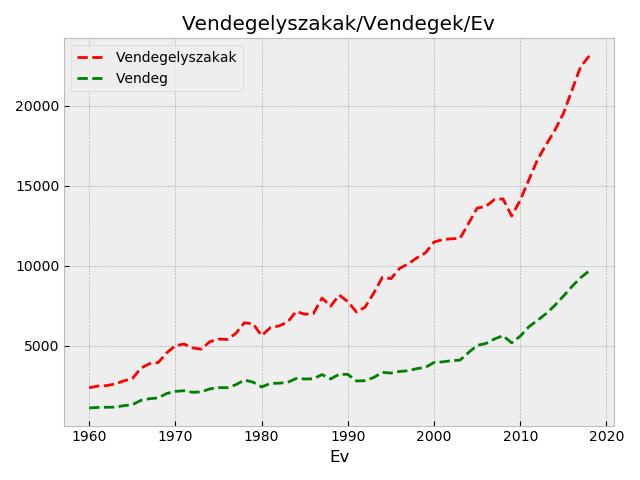
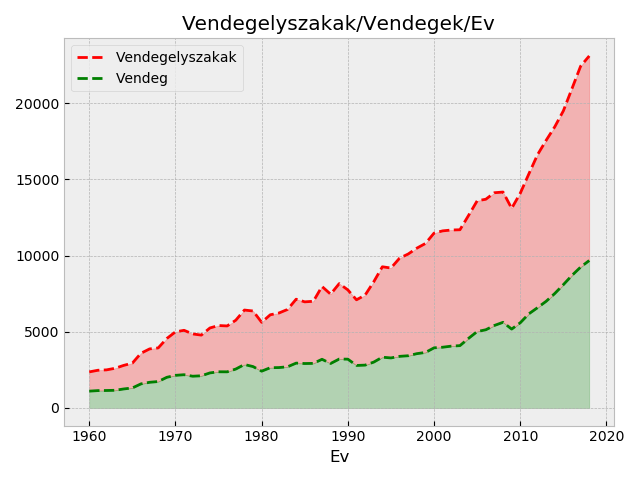
Torta + Kitölrtés
2_graf,8_graf

diff --git a/PythonApplication1.py b/PythonApplication1.py
@@ -20,6 +20,26 @@ Kihasznaltsag = readed['Kihasznaltsag']
 readed['Foglalt_ejszakak'] = readed['Vendegelyszakak']/readed['Vendeg']
 Foglalt_ejszakak = readed['Foglalt_ejszakak']
 
+Vendegek_evtizedenkent = [0,0,0,0,0]
+
+for i in range(len(Ev)):
+    if(Ev[i]<1970): 
+        Vendegek_evtizedenkent[0] += Vendeg[i]
+    else: 
+        if(Ev[i]<1980):
+            Vendegek_evtizedenkent[1] += Vendeg[i]
+        else:
+            if(Ev[i]<1990):
+                Vendegek_evtizedenkent[2] += Vendeg[i]
+            else:
+                if(Ev[i]<2000):
+                    Vendegek_evtizedenkent[3] += Vendeg[i]
+                else:
+                    if(Ev[i]<2010):
+                        Vendegek_evtizedenkent[4] += Vendeg[i]
+
+
+
 
 # 1_graf grafikon a ferohelyekrol evszamok szerint
 
@@ -40,6 +60,8 @@ Foglalt_ejszakak = readed['Foglalt_ejszakak']
 #plt.title('Vendegelyszakak/Vendegek/Ev')
 #plt.plot(Ev,Vendegelyszakak,'r--',label = 'Vendegelyszakak')
 #plt.plot(Ev,Vendeg,'g--',label = 'Vendeg')
+#plt.fill_between(Ev,Vendegelyszakak,Vendeg,interpolate=True,alpha = 0.25,color = 'red')
+#plt.fill_between(Ev,Vendeg,interpolate=True,alpha = 0.25,color = 'green')
 #plt.legend()
 #plt.grid(True)
 #plt.tight_layout()
@@ -104,12 +126,26 @@ Foglalt_ejszakak = readed['Foglalt_ejszakak']
 
 # 7_graf oszlop diagram eloallitott adatbol foglalt helyekrol
 
-plt.xlabel('Ev')
-plt.ylabel('Foglalt ejszakak(db)')
-plt.title('Evszerinti foglalt ejszakak darabszama')
-plt.plot(Ev,Foglalt_ejszakak,'y-', linewidth = 2 ,label = 'Foglalt ejszakak')
-plt.legend()
-plt.grid(True)
-plt.tight_layout()
-plt.savefig('7_graf.png')
-plt.show()
+#plt.xlabel('Ev')
+#plt.ylabel('Foglalt ejszakak(db)')
+#plt.title('Evszerinti foglalt ejszakak darabszama')
+#plt.plot(Ev,Foglalt_ejszakak,'y-', linewidth = 2 ,label = 'Foglalt ejszakak')
+#plt.legend()
+#plt.grid(True)
+#plt.tight_layout()
+##plt.savefig('7_graf.png')
+#plt.show()
+
+# 8_graf tortadiagram eloallitott adatokbol a vendegek evtizendenkenti eloszlasarol
+
+
+#labels = ['60-as evek','70-es evek','80-as evek','90-es evek','00-es evek']
+#colors = ['blue','red','green','yellow','purple']
+#explode = [0.3,0,0,0,0]
+#plt.pie(Vendegek_evtizedenkent, labels=labels, colors = colors, explode = explode, shadow = True ,wedgeprops={'edgecolor':'black'})
+#
+#plt.title("Vendegek eloszlasa evtizedenkent")
+#plt.grid(True)
+#plt.tight_layout()
+##plt.savefig('8_graf.png')
+#plt.show()
